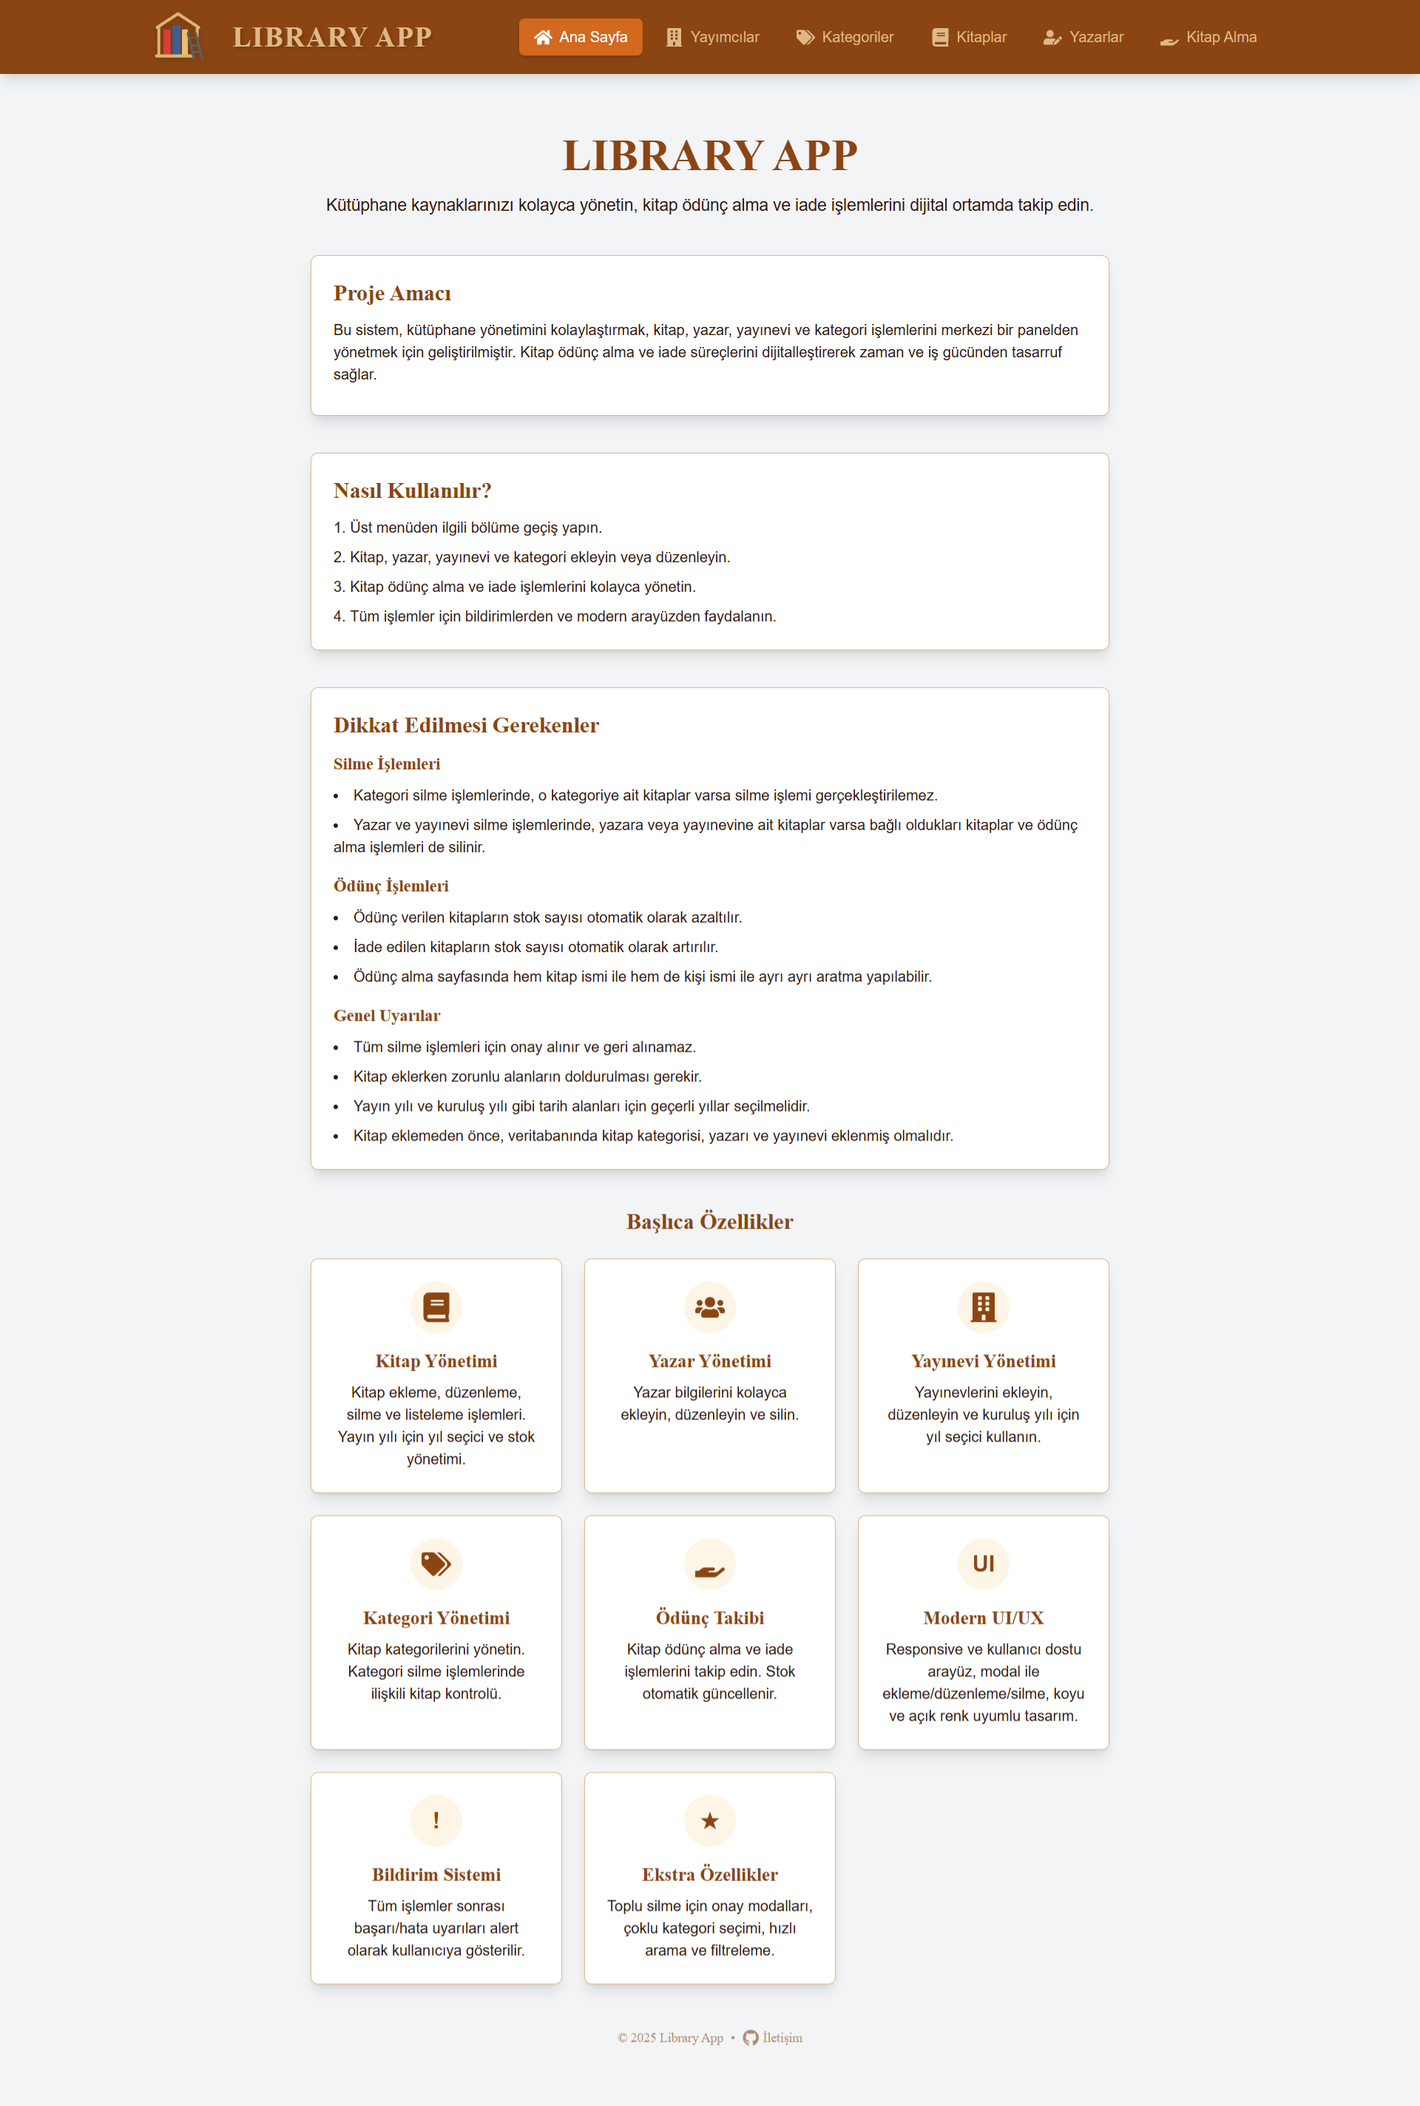
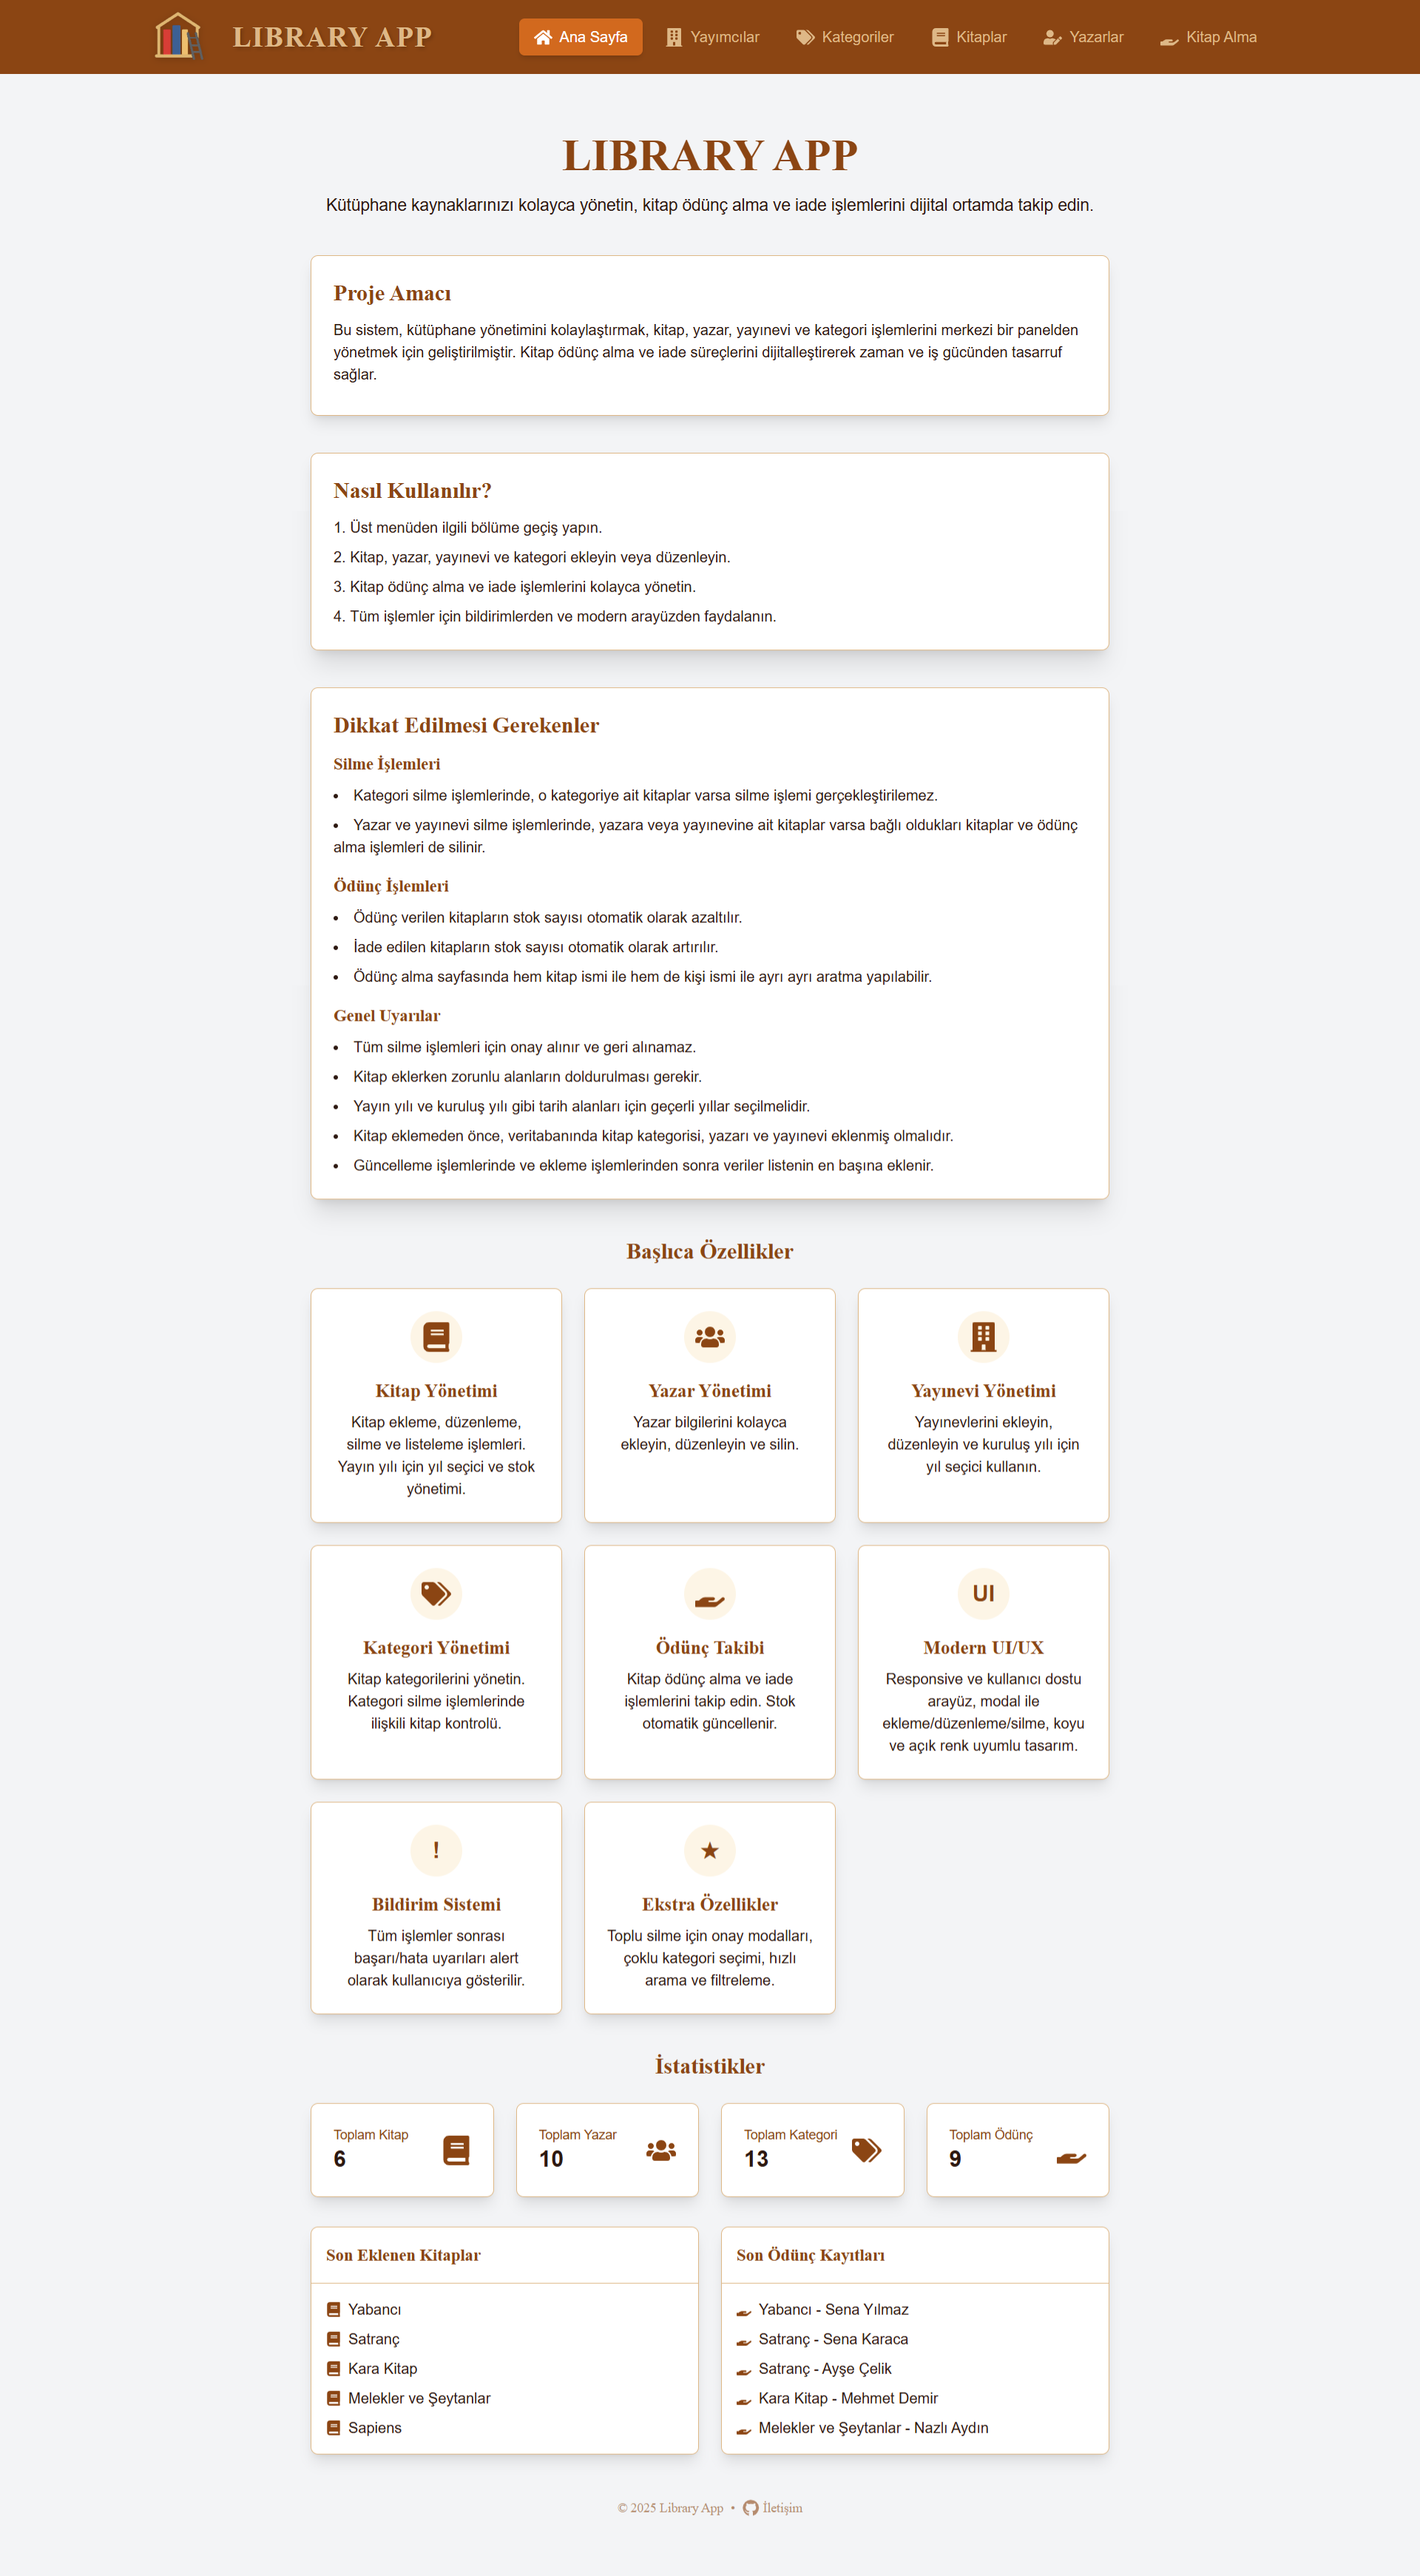
home page and readme update

Changed region(s): [[0.0, 0.0, 1.0, 0.9891]]

diff --git a/src/pages/Home.jsx b/src/pages/Home.jsx
@@ -203,24 +203,14 @@ const Home = ({ showNotification }) => {
           ))}
         </div>
       </div>
-      <div className="text-center text-[#8B4513]/60 text-sm mt-12 font-['Playfair_Display']">
-        <div className="flex items-center justify-center space-x-2">
-          <span>© {new Date().getFullYear()} Library App</span>
-          <span>•</span>
-          <a 
-            href="https://github.com/tunahanyasar" 
-            target="_blank" 
-            rel="noopener noreferrer"
-            className="flex items-center space-x-1 hover:text-[#8B4513] transition-colors duration-300"
-          >
-            <FaGithub className="text-lg" />
-            <span>İletişim</span>
-          </a>
-        </div>
-      </div>
+      
 
       {/* İstatistik Kartları */}
+      <h2 className="text-2xl font-semibold text-[#8B4513] mb-6 text-center font-['Playfair_Display']">
+          İstatistikler
+        </h2>
       <div className="grid grid-cols-1 md:grid-cols-2 lg:grid-cols-4 gap-6 mb-8">
+        
         {/* Toplam Kitap Sayısı */}
         <div className="bg-white rounded-lg shadow-lg p-6 border border-[#DEB887]">
           <div className="flex items-center justify-between">
@@ -316,7 +306,23 @@ const Home = ({ showNotification }) => {
           </div>
         </div>
       </div>
+      <div className="text-center text-[#8B4513]/60 text-sm mt-12 font-['Playfair_Display']">
+        <div className="flex items-center justify-center space-x-2">
+          <span>© {new Date().getFullYear()} Library App</span>
+          <span>•</span>
+          <a 
+            href="https://github.com/tunahanyasar" 
+            target="_blank" 
+            rel="noopener noreferrer"
+            className="flex items-center space-x-1 hover:text-[#8B4513] transition-colors duration-300"
+          >
+            <FaGithub className="text-lg" />
+            <span>İletişim</span>
+          </a>
+        </div>
+      </div>
     </div>
+    
   );
 };
 
